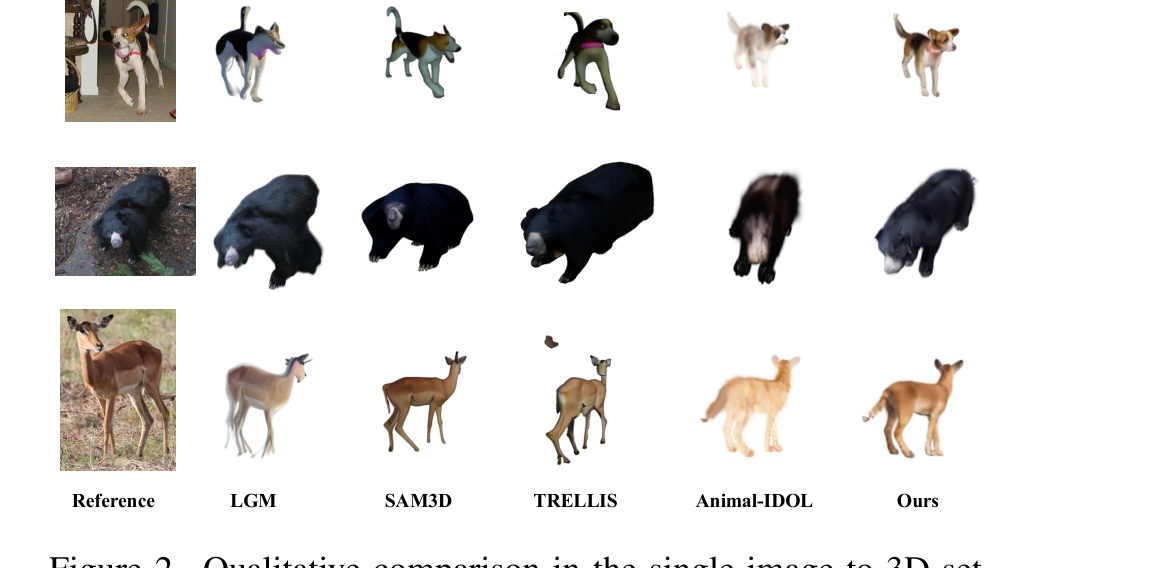
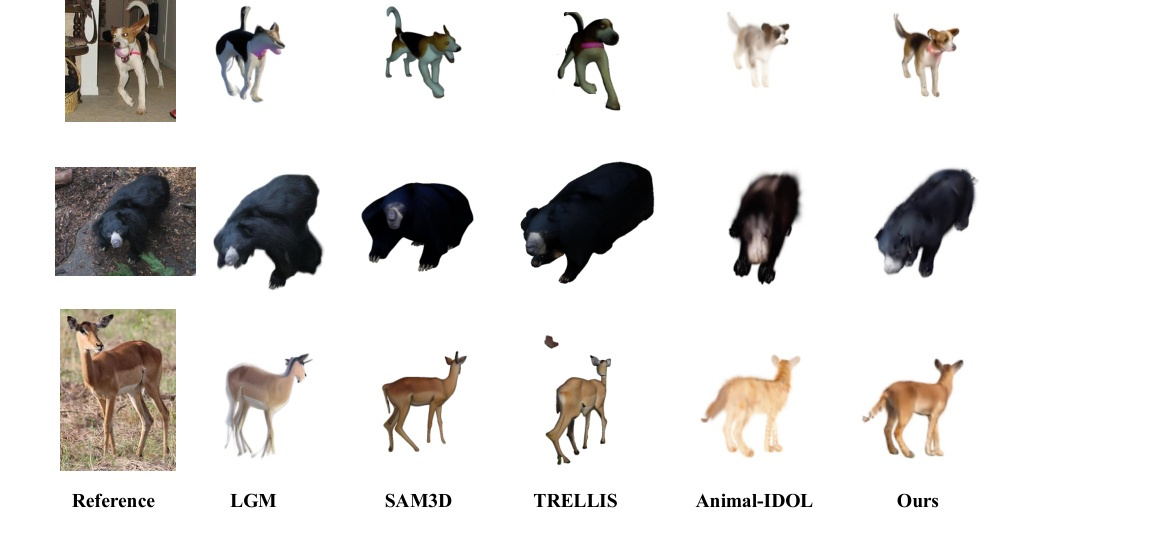
update AniGauss project page assets

diff --git a/anigauss/index.html b/anigauss/index.html
@@ -142,6 +142,8 @@
         <a href="#abstract">Abstract</a>
         <a href="#method">Method</a>
         <a href="#results">Results</a>
+        <a href="#poster">Poster</a>
+        <a href="#future-work">Future Work</a>
         <a href="#citation">Citation</a>
       </div>
     </div>
@@ -160,6 +162,7 @@
         <div class="links">
           <a class="btn primary" href="#method">Method Overview</a>
           <a class="btn" href="#results">Qualitative Results</a>
+          <a class="btn" href="assets/poster.pdf">Poster</a>
           <span class="btn disabled" aria-disabled="true">Paper Coming Soon</span>
           <span class="btn disabled" aria-disabled="true">Code Coming Soon</span>
         </div>
@@ -237,7 +240,29 @@
       </div>
       <div class="card figure-card">
         <img src="assets/qualitative.jpg" alt="Qualitative comparison of AniGauss with LGM, SAM3D, TRELLIS, and Animal-IDOL on animal image-to-3D reconstruction" />
-        <div class="pad"><p class="caption"><strong>Comparison.</strong> Against generic image-to-3D baselines and an animal-adapted animatable baseline, AniGauss aims to preserve animal-specific structural consistency, multi-view appearance, and plausible full-body shape under challenging in-the-wild inputs.</p></div>
+      </div>
+    </div>
+  </section>
+
+  <section class="section" id="poster">
+    <div class="container">
+      <div class="section-head">
+        <div class="section-kicker">Poster</div>
+        <h2>CVPRW poster.</h2>
+        <p class="section-desc">The project poster summarizes the AniGauss pipeline, topology-aware Gaussian representation, and qualitative comparisons.</p>
+      </div>
+      <div class="card pad">
+        <a class="btn primary" href="assets/poster.pdf">Download Poster PDF</a>
+      </div>
+    </div>
+  </section>
+
+  <section class="section" id="future-work">
+    <div class="container">
+      <div class="section-head">
+        <div class="section-kicker">Future Work</div>
+        <h2>Toward more advanced animatable animal reconstruction.</h2>
+        <p class="section-desc">We plan to further improve AniGauss with stronger canonical-view generation, richer topology-aware Gaussian modeling, more diverse animal categories, and more robust handling of challenging in-the-wild cases such as occlusion, extreme articulation, fur, and fine geometric details.</p>
       </div>
     </div>
   </section>